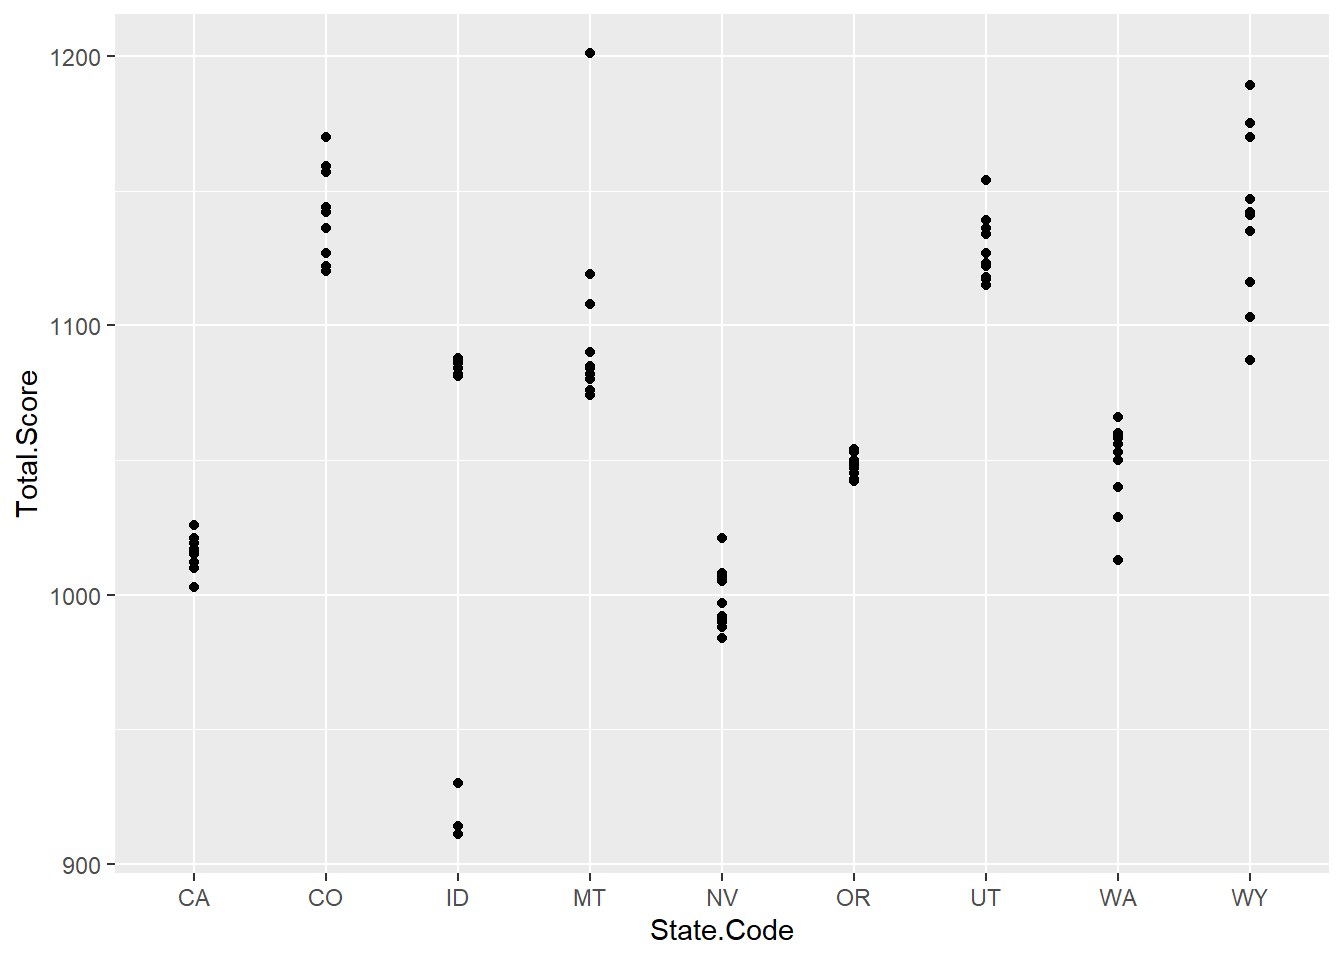
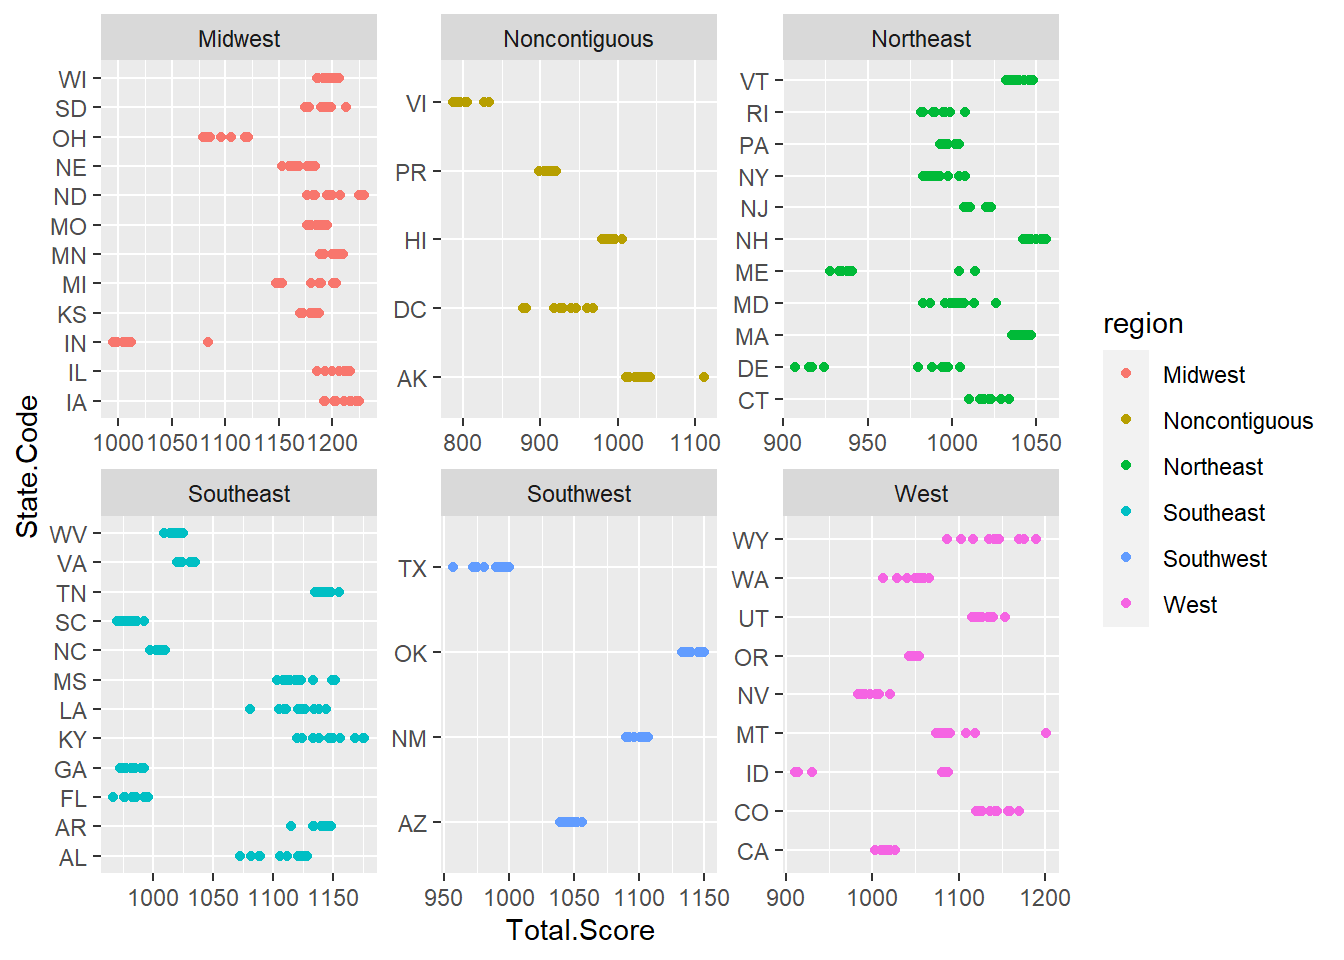
I am changing.

diff --git a/content/analysis.html b/content/analysis.html
@@ -46,7 +46,7 @@ print(ls())</code></pre>
 <li>Is performance in certain subjects more sensitive to changes in family income than others (e.g., math vs. English)?</li>
 <li>Is GPA more affected by family income than SAT scores?</li>
 </ol>
-<pre class="r"><code>library(stringr)
+<pre class="r"><code># this needs to be fixed — use something other than geom_col
 schooldata &lt;- read_csv(here::here(&quot;dataset/school_scores_data_clean.csv&quot;))</code></pre>
 <pre><code>## Rows: 577 Columns: 99
 ## ── Column specification ────────────────────────────────────────────────────────
@@ -56,86 +56,7 @@ schooldata &lt;- read_csv(here::here(&quot;dataset/school_scores_data_clean.csv&
 ## 
 ## ℹ Use `spec()` to retrieve the full column specification for this data.
 ## ℹ Specify the column types or set `show_col_types = FALSE` to quiet this message.</code></pre>
-<pre class="r"><code>schooldatacleaned &lt;- read_csv(here::here(&quot;dataset/schooldatacleaned.csv&quot;))</code></pre>
-<pre><code>## New names:
-## Rows: 577 Columns: 107
-## ── Column specification
-## ──────────────────────────────────────────────────────── Delimiter: &quot;,&quot; chr
-## (2): state.code, state.name dbl (105): ...1, year, total.math,
-## total.testtakers, total.verbal, arts.musi...
-## ℹ Use `spec()` to retrieve the full column specification for this data. ℹ
-## Specify the column types or set `show_col_types = FALSE` to quiet this message.
-## • `` -&gt; `...1`</code></pre>
-<pre class="r"><code>schooldatacleaned_math &lt;- schooldatacleaned %&gt;% 
-  select(year,&quot;state.code&quot;,&quot;income.less.than.20k.math&quot;, &quot;income.between.20.40k.math&quot;, &quot;income.between.40.60k.math&quot;, &quot;income.between.60.80k.math&quot;, &quot;income.between.80.100k.math&quot;, &quot;income.more.than.100k.math&quot;) %&gt;%
-  pivot_longer(c(income.less.than.20k.math, income.between.20.40k.math, income.between.40.60k.math, income.between.60.80k.math, income.between.80.100k.math, income.more.than.100k.math), 
-               names_to = &quot;income.bracket.math&quot;, 
-               values_to = &quot;average.math.score.of.bracket&quot;, 
-               values_drop_na = TRUE) %&gt;%
-  mutate(income.bracket = str_remove(income.bracket.math, &quot;.math&quot;)) %&gt;%
-  select(&quot;state.code&quot;, &quot;income.bracket&quot;,&quot;average.math.score.of.bracket&quot;) 
-schooldatacleaned_math</code></pre>
-<pre><code>## # A tibble: 3,462 × 3
-##    state.code income.bracket         average.math.score.of.bracket
-##    &lt;chr&gt;      &lt;chr&gt;                                          &lt;dbl&gt;
-##  1 AL         income.less.than.20k                             462
-##  2 AL         income.between.20.40k                            513
-##  3 AL         income.between.40.60k                            539
-##  4 AL         income.between.60.80k                            550
-##  5 AL         income.between.80.100k                           566
-##  6 AL         income.more.than.100k                            588
-##  7 AK         income.less.than.20k                             464
-##  8 AK         income.between.20.40k                            492
-##  9 AK         income.between.40.60k                            517
-## 10 AK         income.between.60.80k                            513
-## # … with 3,452 more rows</code></pre>
-<pre class="r"><code>schooldatacleaned_verbal &lt;- schooldatacleaned %&gt;% 
-  select(year,&quot;state.code&quot;,&quot;income.less.than.20k.verbal&quot;, &quot;income.between.20.40k.verbal&quot;, &quot;income.between.40.60k.verbal&quot;, &quot;income.between.60.80k.verbal&quot;, &quot;income.between.80.100k.verbal&quot;, &quot;income.more.than.100k.verbal&quot;) %&gt;%
-  pivot_longer(c(income.less.than.20k.verbal, income.between.20.40k.verbal, income.between.40.60k.verbal, income.between.60.80k.verbal, income.between.80.100k.verbal, income.more.than.100k.verbal), 
-               names_to = &quot;income.bracket.verbal&quot;, 
-               values_to = &quot;average.verbal.score.of.bracket&quot;, 
-               values_drop_na = TRUE) %&gt;%
-  mutate(income.bracket = str_remove(income.bracket.verbal, &quot;.verbal&quot;)) %&gt;%
-  select(&quot;state.code&quot;, &quot;income.bracket&quot;, &quot;average.verbal.score.of.bracket&quot;)
-schooldatacleaned_verbal</code></pre>
-<pre><code>## # A tibble: 3,462 × 3
-##    state.code income.bracket         average.verbal.score.of.bracket
-##    &lt;chr&gt;      &lt;chr&gt;                                            &lt;dbl&gt;
-##  1 AL         income.less.than.20k                               474
-##  2 AL         income.between.20.40k                              527
-##  3 AL         income.between.40.60k                              551
-##  4 AL         income.between.60.80k                              564
-##  5 AL         income.between.80.100k                             577
-##  6 AL         income.more.than.100k                              590
-##  7 AK         income.less.than.20k                               467
-##  8 AK         income.between.20.40k                              500
-##  9 AK         income.between.40.60k                              522
-## 10 AK         income.between.60.80k                              519
-## # … with 3,452 more rows</code></pre>
-<pre class="r"><code>schooldatacleaned_math$average.verbal.score.of.bracket &lt;- schooldatacleaned_verbal$average.verbal.score.of.bracket
-schooldatacleaned &lt;- schooldatacleaned_math %&gt;% 
-  bind_cols(schooldatacleaned_verbal$average.verbal.score.of.bracket) %&gt;%
-  select(&quot;state.code&quot;, &quot;income.bracket&quot;, &quot;average.math.score.of.bracket&quot;, &quot;average.verbal.score.of.bracket&quot;)</code></pre>
-<pre><code>## New names:
-## • `` -&gt; `...5`</code></pre>
-<pre class="r"><code>schooldatacleaned</code></pre>
-<pre><code>## # A tibble: 3,462 × 4
-##    state.code income.bracket         average.math.score.of.bracket average.ver…¹
-##    &lt;chr&gt;      &lt;chr&gt;                                          &lt;dbl&gt;         &lt;dbl&gt;
-##  1 AL         income.less.than.20k                             462           474
-##  2 AL         income.between.20.40k                            513           527
-##  3 AL         income.between.40.60k                            539           551
-##  4 AL         income.between.60.80k                            550           564
-##  5 AL         income.between.80.100k                           566           577
-##  6 AL         income.more.than.100k                            588           590
-##  7 AK         income.less.than.20k                             464           467
-##  8 AK         income.between.20.40k                            492           500
-##  9 AK         income.between.40.60k                            517           522
-## 10 AK         income.between.60.80k                            513           519
-## # … with 3,452 more rows, and abbreviated variable name
-## #   ¹average.verbal.score.of.bracket</code></pre>
-<pre class="r"><code># this needs to be fixed — use something other than geom_col
-sixstates &lt;- c(&quot;MD&quot;, &quot;NJ&quot;, &quot;MA&quot;, &quot;AR&quot;, &quot;WV&quot;, &quot;MS&quot;)
+<pre class="r"><code>sixstates &lt;- c(&quot;MD&quot;, &quot;NJ&quot;, &quot;MA&quot;, &quot;AR&quot;, &quot;WV&quot;, &quot;MS&quot;)
 schooldata6 &lt;- schooldata %&gt;% 
   filter(State.Code %in% sixstates) %&gt;% 
   mutate(Total.Score = Total.Math + Total.Verbal) %&gt;% 
@@ -164,27 +85,21 @@ schooldata6</code></pre>
 <p>Our first model takes the three U.S. states with the highest median household income and the three with the lowest and plots them against their average SAT scores. We can see that this plot does not support our conjecture that higher family incomes lead to higher SAT scores, as the scores for Arkansas and Mississippi, two of the states with the lowest median household income in the country, have higher average SAT scores than all three states with the highest median household incomes.</p>
 <pre class="r"><code># this needs to be fixed — use something other than geom_col
 # Big Picture page idea: put the lowest and highest brackets
-schooldatacleaned &lt;- schooldatacleaned %&gt;% 
+schooldatacleaned_pivoted &lt;- read_csv(here::here(&quot;dataset/schooldatacleaned_pivoted.csv&quot;))</code></pre>
+<pre><code>## Rows: 3462 Columns: 4
+## ── Column specification ────────────────────────────────────────────────────────
+## Delimiter: &quot;,&quot;
+## chr (2): state.code, income.bracket
+## dbl (2): average.math.score.of.bracket, average.verbal.score.of.bracket
+## 
+## ℹ Use `spec()` to retrieve the full column specification for this data.
+## ℹ Specify the column types or set `show_col_types = FALSE` to quiet this message.</code></pre>
+<pre class="r"><code>schooldatacleaned_pivoted &lt;- schooldatacleaned_pivoted %&gt;% 
   mutate(average.total.score.of.bracket = average.math.score.of.bracket + average.verbal.score.of.bracket) %&gt;% 
   select(&quot;state.code&quot;, &quot;income.bracket&quot;, &quot;average.total.score.of.bracket&quot;) %&gt;% 
   group_by(income.bracket) 
-schooldatacleaned</code></pre>
-<pre><code>## # A tibble: 3,462 × 3
-## # Groups:   income.bracket [6]
-##    state.code income.bracket         average.total.score.of.bracket
-##    &lt;chr&gt;      &lt;chr&gt;                                           &lt;dbl&gt;
-##  1 AL         income.less.than.20k                              936
-##  2 AL         income.between.20.40k                            1040
-##  3 AL         income.between.40.60k                            1090
-##  4 AL         income.between.60.80k                            1114
-##  5 AL         income.between.80.100k                           1143
-##  6 AL         income.more.than.100k                            1178
-##  7 AK         income.less.than.20k                              931
-##  8 AK         income.between.20.40k                             992
-##  9 AK         income.between.40.60k                            1039
-## 10 AK         income.between.60.80k                            1032
-## # … with 3,452 more rows</code></pre>
-<pre class="r"><code>ggplot(data = schooldatacleaned, 
+
+ggplot(data = schooldatacleaned_pivoted, 
        mapping = aes(x = income.bracket, 
                      y = average.total.score.of.bracket, 
                      fill = income.bracket)) + 
@@ -215,6 +130,34 @@ summary(lm(incomescore ~ income, lm2))</code></pre>
 ## Multiple R-squared:  0.9029, Adjusted R-squared:  0.8705 
 ## F-statistic:  27.9 on 1 and 3 DF,  p-value: 0.01323</code></pre>
 <p>We see here that there is a very strong positive correlation between income bracket and SAT score, as the R^2 value is very high and the absolute value of the t-stat for income is greater than 2.</p>
+<pre class="r"><code># boxplot of all states and their average SAT scores
+# reorder later
+schooldata3 &lt;- schooldata %&gt;% 
+  filter(State.Code %in% sixstates) %&gt;%
+  mutate(Total.Score = Total.Math + Total.Verbal) %&gt;% 
+  select(&quot;State.Code&quot;, &quot;Total.Score&quot;) %&gt;% 
+  group_by(State.Code)
+
+schooldata3</code></pre>
+<pre><code>## # A tibble: 64 × 2
+## # Groups:   State.Code [6]
+##    State.Code Total.Score
+##    &lt;chr&gt;            &lt;dbl&gt;
+##  1 AR                1115
+##  2 MD                1026
+##  3 MA                1047
+##  4 MS                1118
+##  5 NJ                1020
+##  6 AR                1142
+##  7 MD                1013
+##  8 MA                1037
+##  9 MS                1103
+## 10 NJ                1011
+## # … with 54 more rows</code></pre>
+<pre class="r"><code>schooldata3 %&gt;% ggplot(aes(x = Total.Score, y = State.Code), outlier.colour = NULL) + 
+  geom_boxplot() + 
+  labs(x = &quot;SAT Score&quot;, y = &quot;State&quot;)</code></pre>
+<p><img src="/analysis_files/figure-html/model%203-1.png" width="672" /></p>
 <p>This model is a more in-depth look at the differences in SAT scores across different states.</p>
 <pre class="r"><code># map of average total score by state
 library(maps)</code></pre>
@@ -242,7 +185,7 @@ ggplot() + geom_polygon(data = MergedStates, aes(x = long, y = lat, group = grou
   scale_fill_continuous(low = &quot;springgreen&quot;, high = &quot;springgreen4&quot;, name = &quot;Average SAT Score&quot;) + 
   labs(title = &quot;Average SAT Score by State&quot;)</code></pre>
 <p><img src="/analysis_files/figure-html/model%204-1.png" width="672" /></p>
-<p>Similar to Model 3, Model 4 takes a look at the average SAT score in every state, but in a more digestible and aesthetically pleasing map form. We see that states in the midwest tend to have higher average SAT score.</p>
+<p>Similarly to Model 3, Model 4 takes a look at the average SAT score in every state, but in a more digestible and aesthetically pleasing map form. We see that states in the midwest tend to have higher average SAT score.</p>
 <pre class="r"><code># use facet_grid later to put all plots into a matrix
 west &lt;- c(&quot;WA&quot;,&quot;OR&quot;, &quot;ID&quot;, &quot;MT&quot;, &quot;WY&quot;, &quot;CA&quot;, &quot;NV&quot;, &quot;UT&quot;, &quot;CO&quot;)
 southwest &lt;- c(&quot;AZ&quot;, &quot;NM&quot;, &quot;OK&quot;, &quot;TX&quot;)
@@ -252,52 +195,20 @@ northeast &lt;- c(&quot;MA&quot;, &quot;MD&quot;, &quot;DE&quot;, &quot;NJ&quot;
 continental_us &lt;- c(west, southwest, midwest, southeast, northeast)
 state_codes &lt;- schooldata %&gt;% select(State.Code) %&gt;% unique() %&gt;% filter(State.Code %in% continental_us)
 
-schooldata5 &lt;- schooldata %&gt;% mutate(Total.Score = Total.Math + Total.Verbal) %&gt;% select(&quot;State.Code&quot;, &quot;Total.Score&quot;, &quot;Year&quot;) %&gt;% add_column(region = NA) %&gt;% mutate(region = ifelse(State.Code %in% west, &quot;west&quot;, region)) %&gt;% mutate(region = ifelse(State.Code %in% southwest, &quot;southwest&quot;, region)) %&gt;% mutate(region = ifelse(State.Code %in% midwest, &quot;midwest&quot;, region)) %&gt;% mutate(region = ifelse(State.Code %in% southeast, &quot;southeast&quot;, region)) %&gt;% mutate(region = ifelse(State.Code %in% northeast, &quot;northeast&quot;, region)) %&gt;% group_by(region)
+schooldata5 &lt;- schooldata %&gt;% mutate(Total.Score = Total.Math + Total.Verbal) %&gt;% select(&quot;State.Code&quot;, &quot;Total.Score&quot;, &quot;Year&quot;) %&gt;% add_column(region = NA) %&gt;% mutate(region = ifelse(State.Code %in% west, &quot;West&quot;, region)) %&gt;% mutate(region = ifelse(State.Code %in% southwest, &quot;Southwest&quot;, region)) %&gt;% mutate(region = ifelse(State.Code %in% midwest, &quot;Midwest&quot;, region)) %&gt;% mutate(region = ifelse(State.Code %in% southeast, &quot;Southeast&quot;, region)) %&gt;% mutate(region = ifelse(State.Code %in% northeast, &quot;Northeast&quot;, region)) %&gt;% group_by(region) %&gt;% mutate(region = ifelse(!State.Code %in% continental_us, &quot;Noncontiguous&quot;, region))
 
 continental_us &lt;- schooldata$State.Code %&gt;% unique()
 #continental_us
 
-facet_grid(Total.Score ~ State.Code, facets = &quot;region&quot;)</code></pre>
-<pre><code>## &lt;ggproto object: Class FacetGrid, Facet, gg&gt;
-##     compute_layout: function
-##     draw_back: function
-##     draw_front: function
-##     draw_labels: function
-##     draw_panels: function
-##     finish_data: function
-##     init_scales: function
-##     map_data: function
-##     params: list
-##     setup_data: function
-##     setup_params: function
-##     shrink: TRUE
-##     train_scales: function
-##     vars: function
-##     super:  &lt;ggproto object: Class FacetGrid, Facet, gg&gt;</code></pre>
-<pre class="r"><code>par(mfrow = c(2,3))
-
-schooldata5 %&gt;% filter(region == &quot;west&quot;) %&gt;%
-  ggplot(aes(x = State.Code , y = Total.Score)) + geom_point()</code></pre>
+schooldata5 %&gt;% ggplot(aes(Total.Score, State.Code, col = region)) + facet_wrap(~region, scales = &quot;free&quot;) + geom_point()</code></pre>
 <p><img src="/analysis_files/figure-html/model%205-1.png" width="672" /></p>
-<pre class="r"><code>schooldata5 %&gt;% filter(region == &quot;southwest&quot;) %&gt;%
-  ggplot(aes(x = State.Code , y = Total.Score)) + geom_point()</code></pre>
-<p><img src="/analysis_files/figure-html/model%205-2.png" width="672" /></p>
-<pre class="r"><code>schooldata5 %&gt;% filter(region == &quot;midwest&quot;) %&gt;%
-  ggplot(aes(x = State.Code , y = Total.Score)) + geom_point()</code></pre>
-<p><img src="/analysis_files/figure-html/model%205-3.png" width="672" /></p>
-<pre class="r"><code>schooldata5 %&gt;% filter(region == &quot;southeast&quot;) %&gt;%
-  ggplot(aes(x = State.Code , y = Total.Score)) + geom_point()</code></pre>
-<p><img src="/analysis_files/figure-html/model%205-4.png" width="672" /></p>
-<pre class="r"><code>schooldata5 %&gt;% filter(region == &quot;northeast&quot;) %&gt;%
-  ggplot(aes(x = State.Code , y = Total.Score)) + geom_point()</code></pre>
-<p><img src="/analysis_files/figure-html/model%205-5.png" width="672" /></p>
 <p>This is a matrix of average SAT scores by state, split into the 5 regions of the continental United States. Just as in Model 4, we see that the Midwest generally have higher average scores.</p>
 <pre class="r"><code>library(leaps)
 
 bs &lt;- leaps::regsubsets(
   average.total.score.of.bracket ~ .,
   method = &quot;backward&quot;,
-  data = schooldatacleaned
+  data = schooldatacleaned_pivoted
 )
 
 summary(bs)$which</code></pre>
